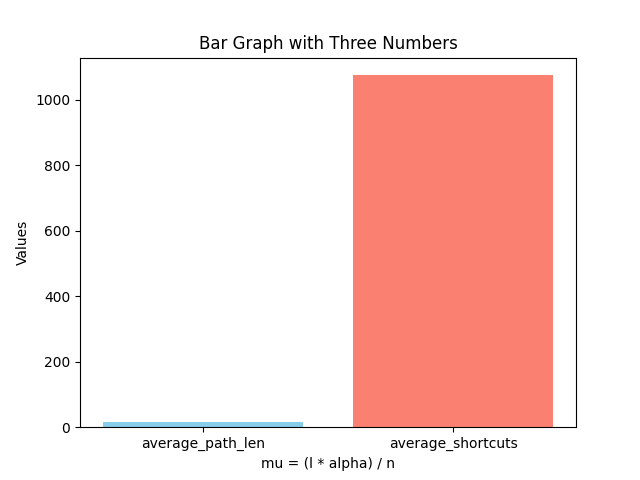
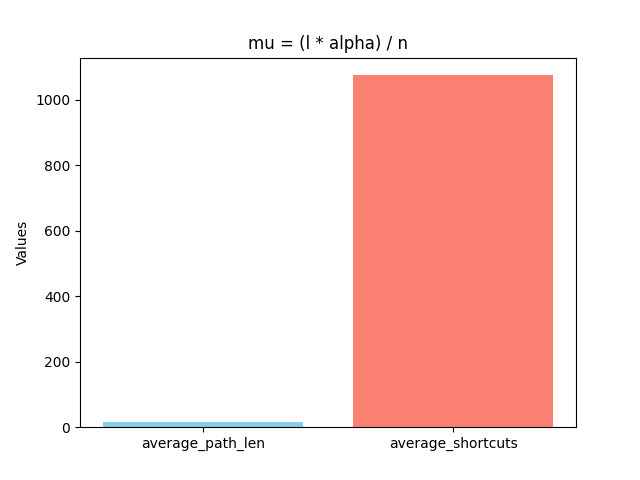
updated graph title

Changed region(s): [[0.3125, 0.0625, 0.7188, 0.125], [0.4062, 0.9375, 0.625, 1.0]]

diff --git a/script.py b/script.py
@@ -18,8 +18,9 @@ with open('data.csv', mode='r', newline='', encoding='utf-8') as file:
         labels = ['average_path_len', 'average_shortcuts']
         numbers = [average_path_len, average_shortcuts]
         plt.bar(labels, numbers, color=['skyblue', 'salmon'])
-        plt.title('Bar Graph with Three Numbers')
-        plt.xlabel('mu = (l * alpha) / n')
+        #plt.title('')
+        plt.title(mu1[0])
+        # plt.xlabel('mu = (l * alpha) / n')
         plt.ylabel('Values')
         plt.savefig("mu1")
         
@@ -35,8 +36,9 @@ with open('data.csv', mode='r', newline='', encoding='utf-8') as file:
         labels = ['average_path_len', 'average_shortcuts']
         numbers = [average_path_len, average_shortcuts]
         plt.bar(labels, numbers, color=['skyblue', 'salmon'])
-        plt.title('Bar Graph with Three Numbers')
-        plt.xlabel('mu = (l * alpha) / n')
+        #plt.title('')
+        plt.title(mu2[0])
+        #plt.xlabel('mu = (l * alpha) / n')
         plt.ylabel('Values')
         plt.savefig("mu2")
         
